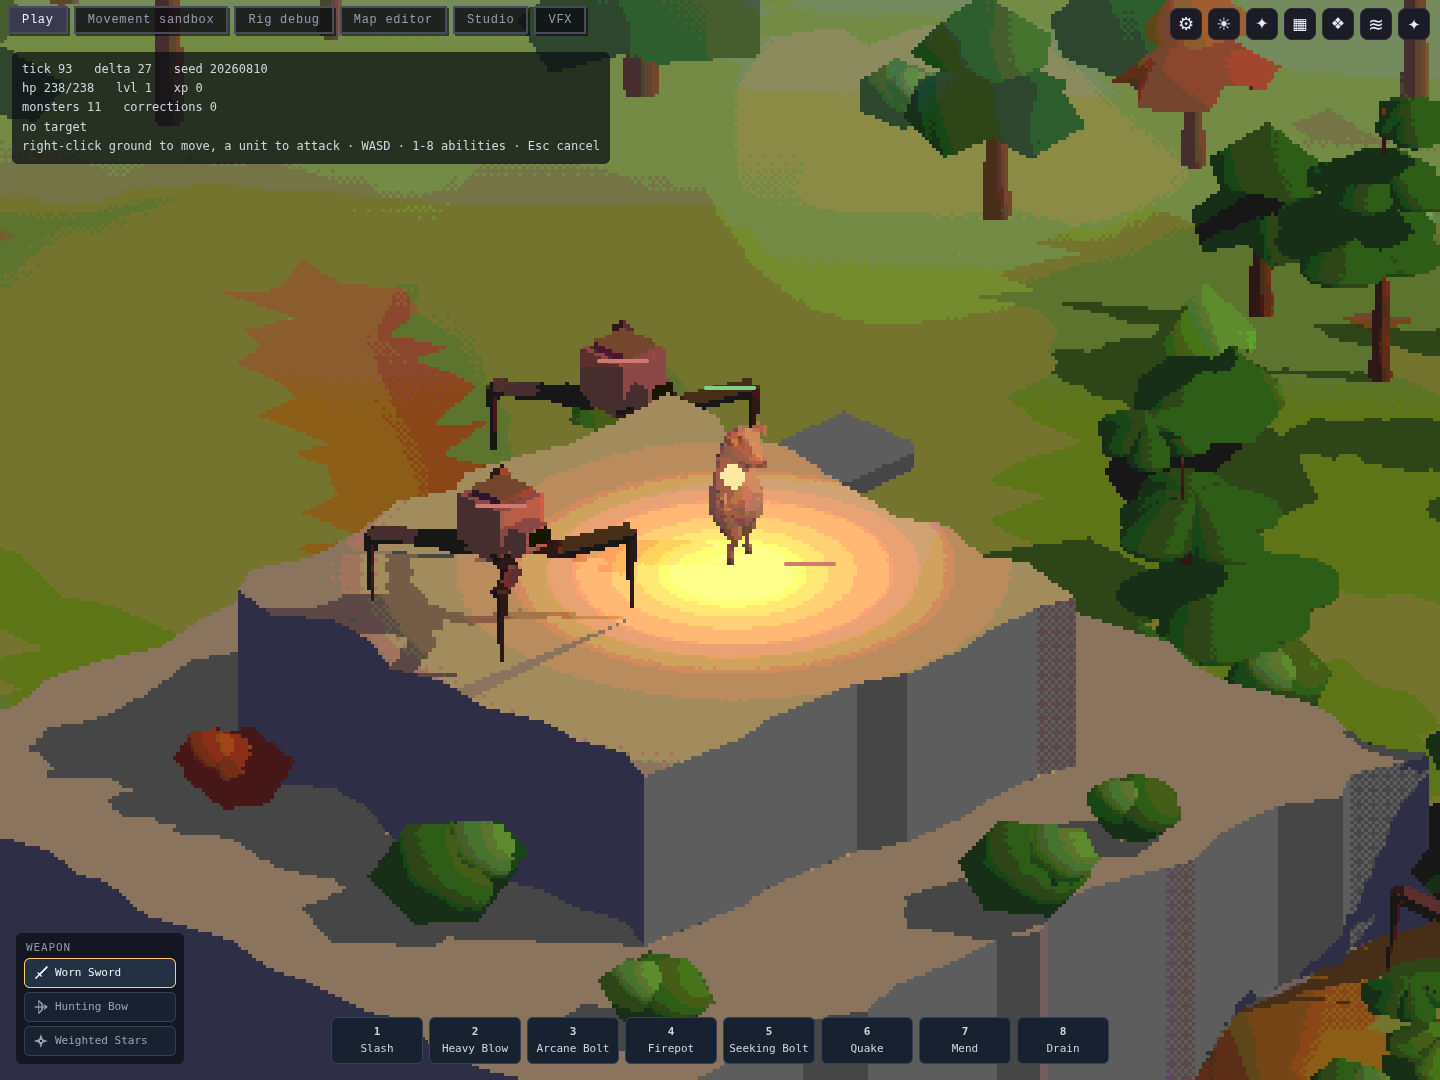
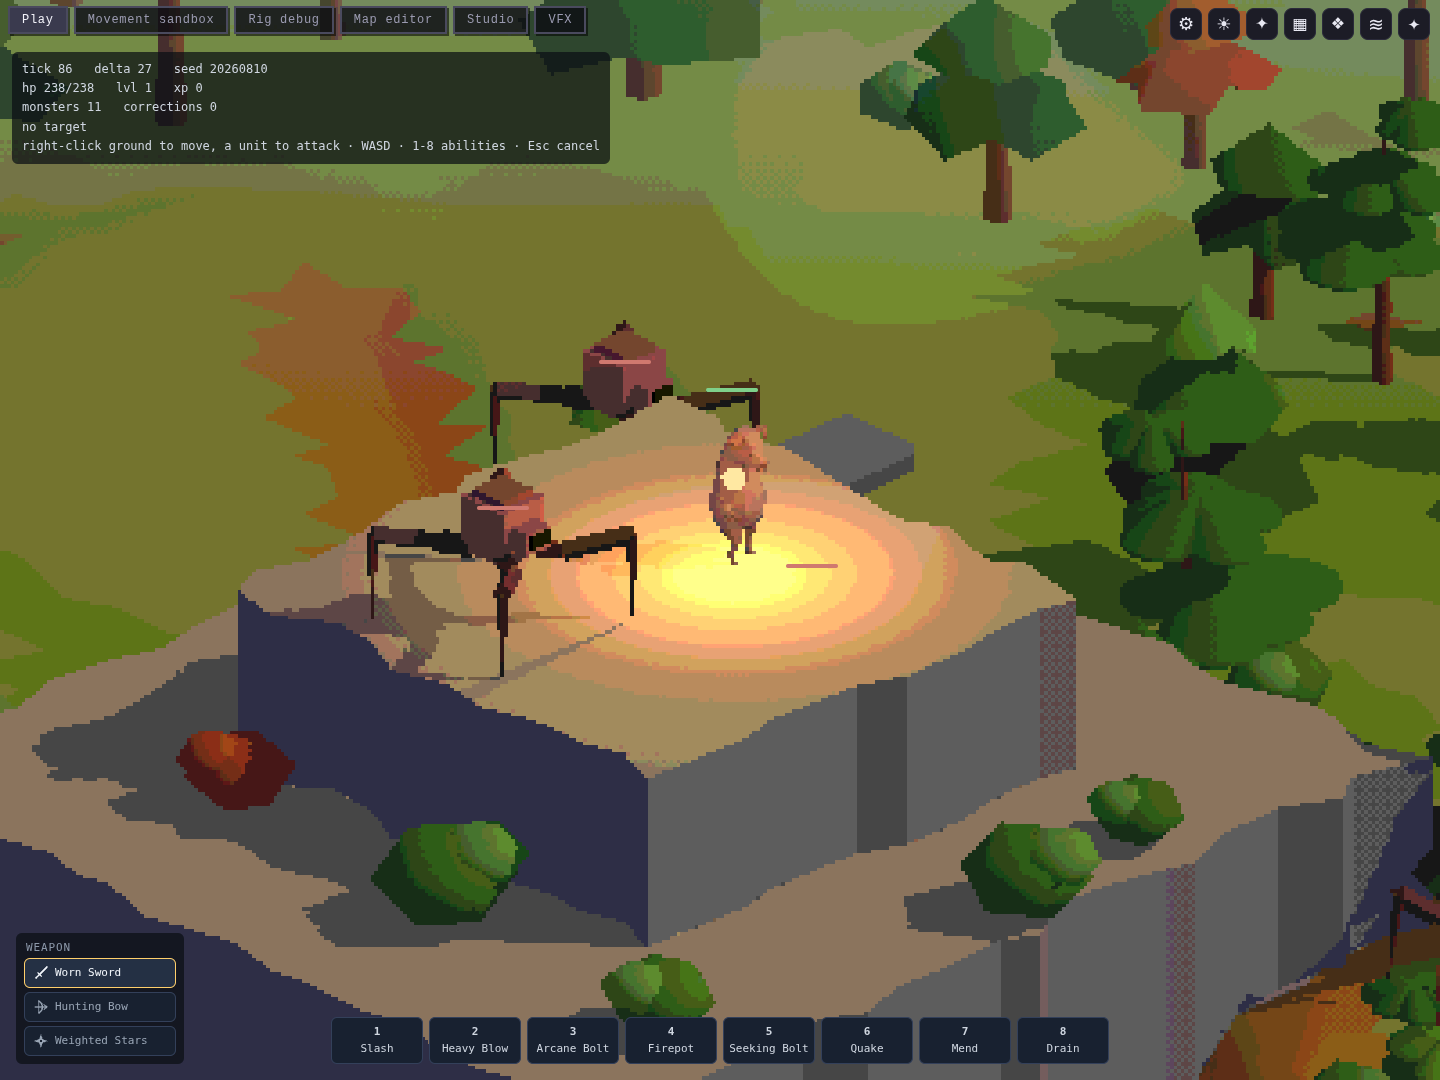
Ask about the whole body, not the point in the middle of it
Marching from the chest answers "is the chest hidden", which is a third question
again and still not the one worth asking. A unit at the corner of a tier with
one shoulder behind it opened the iris and took a crescent out of the wall while
the unit was plainly visible the whole time.

Five samples spanning the silhouette instead -- knees, chest and head up the
body, two more across the view, which is the direction a corner actually clips
one -- and the iris opens only when every one of them is hidden. If any part of
a unit can be seen, the view has no business moving the world.

The lateral samples use a *horizontal* right vector rather than the camera's
own. One that tilted with the pitch would put them above and below the body
instead of either side of it, which is the axis that already had three.

Claude-Session: https://claude.ai/code/session_019snhi2VzDBFhpNoJ2UAnNu

diff --git a/src/render/iso3d/world/scene.ts b/src/render/iso3d/world/scene.ts
@@ -79,7 +79,7 @@ import { HikeEdges } from '../hike-edges.js';
 import { advanceWind } from '../wind-uniforms.js';
 import { clearCutout, cutBodyUniform, cutParamsUniform } from '../cutout-uniforms.js';
 import {
-  bodyIsHidden,
+  bodyHiddenFraction,
   cutoutCoverage,
   CUTOUT_DEFAULTS,
   easeCutout,
@@ -459,6 +459,8 @@ export class WorldScene {
   /** How far open the iris is, 0..1. Eased toward whether the body is hidden. */
   private cutOpen = 0;
   private readonly cutToCamera = new THREE.Vector3();
+  /** Across the view, horizontally: where a corner actually clips a body. */
+  private readonly cutRight = new THREE.Vector3();
   private readonly ndc = new THREE.Vector2();
   private readonly groundPlane = new THREE.Plane(new THREE.Vector3(0, 1, 0), 0);
   private readonly hit = new THREE.Vector3();
@@ -937,10 +939,24 @@ export class WorldScene {
     // Answered off the heightfield, not the geometry: `getWorldDirection` is
     // where the camera is looking, so its negation is the line to march.
     this.camera.getWorldDirection(this.cutToCamera).negate();
-    const chest = groundY + DEFAULT_CANONICAL_HEIGHT * 0.5;
+    // Horizontal, across the view. `crossVectors` with world up, then flattened:
+    // the lateral samples are meant to span the body's *silhouette*, and a right
+    // vector that tilted with the camera's pitch would put them above and below
+    // it instead.
+    this.cutRight.set(this.cutToCamera.z, 0, -this.cutToCamera.x).normalize();
+    // All of it, not the chest alone. A unit at the corner of a tier with one
+    // shoulder behind it used to open the iris and take a crescent out of the
+    // wall while the unit was plainly visible the whole time -- so if any part of
+    // it can be seen, the world does not move.
     const hidden =
       style !== 'off' &&
-      bodyIsHidden({ x: me.x, y: chest, z: me.y }, this.cutToCamera, (x, z) => this.ground(x, z));
+      bodyHiddenFraction(
+        { x: me.x, y: groundY, z: me.y },
+        this.cutToCamera,
+        this.cutRight,
+        DEFAULT_CANONICAL_HEIGHT,
+        (x, z) => this.ground(x, z),
+      ) >= 1;
     this.cutOpen = easeCutout(this.cutOpen, hidden, dt);
 
     // The chest, pushed into view space for the hole's centre...

diff --git a/src/render/iso3d/cutout.test.ts b/src/render/iso3d/cutout.test.ts
@@ -3,7 +3,9 @@ import { describe, expect, it } from 'vitest';
 import { DEFAULT_CANONICAL_HEIGHT } from '../../units/canonical-height.js';
 import {
   bayer4,
+  bodyHiddenFraction,
   bodyIsHidden,
+  BODY_SAMPLES,
   cutoutCoverage,
   cutoutDiscards,
   CUTOUT_APPLY,
@@ -386,5 +388,46 @@ describe('the iris', () => {
 
   it('does not move backwards on a zero-length frame', () => {
     expect(easeCutout(0.4, true, 0)).toBe(0.4);
+  });
+});
+
+describe('how much of the body is hidden (spec 128)', () => {
+  const toCamera = { x: -0.57, y: 0.6, z: -0.57 };
+  const right = { x: -0.707, y: 0, z: 0.707 };
+  const feet = { x: 0, y: 50, z: 0 };
+  const H = DEFAULT_CANONICAL_HEIGHT;
+  const fraction = (heightAt: (x: number, z: number) => number): number =>
+    bodyHiddenFraction(feet, toCamera, right, H, heightAt);
+
+  it('is zero over open ground', () => {
+    expect(fraction(() => 40)).toBe(0);
+  });
+
+  it('is one inside a walled courtyard', () => {
+    expect(fraction((x, z) => (x < -40 && z < -40 ? 500 : 40))).toBe(1);
+  });
+
+  it('is short of one when a corner clips only part of the body', () => {
+    // A wall covering one side of the line: the samples across the view
+    // disagree, which is exactly the case that used to open a crescent beside a
+    // unit you could see perfectly well.
+    const wall = (x: number, z: number): number => (x < -40 && z < -40 && x - z > 0 ? 500 : 40);
+    const partial = fraction(wall);
+    expect(partial).toBeGreaterThan(0);
+    expect(partial).toBeLessThan(1);
+  });
+
+  it('looks from more than one height, so a low wall does not read as a full one', () => {
+    // Hides the knees only: the line from a low sample meets the wall, the line
+    // from the head clears it.
+    const lowWall = (x: number, z: number): number => (x < -40 && x > -120 && z < -40 && z > -120 ? 70 : 40);
+    expect(fraction(lowWall)).toBeLessThan(1);
+  });
+
+  it('spans the body sideways as well as up', () => {
+    const sides = new Set(BODY_SAMPLES.map((s) => s.side));
+    const ups = new Set(BODY_SAMPLES.map((s) => s.up));
+    expect(sides.size).toBeGreaterThan(1);
+    expect(ups.size).toBeGreaterThan(1);
   });
 });

diff --git a/src/render/iso3d/cutout.ts b/src/render/iso3d/cutout.ts
@@ -210,6 +210,55 @@ export function bodyIsHidden(
 }
 
 /**
+ * Where on the body to look from, as fractions of its height: up from the feet,
+ * and sideways across the view.
+ *
+ * One sample was not enough, and the way it failed is instructive. Marching from
+ * the chest alone answers "is the chest hidden", so a unit standing at the
+ * corner of a tier with one shoulder behind it opened the iris and took a
+ * crescent out of the wall -- while the unit was plainly visible the whole time.
+ *
+ * Knees, chest and head span the silhouette vertically; the two lateral samples
+ * span it across the view, which is the direction a corner actually clips a
+ * body. Five marches is about a hundred `heightAt` calls a frame, which is what
+ * the movement code spends on one entity in a tick.
+ */
+export const BODY_SAMPLES: readonly { readonly up: number; readonly side: number }[] = [
+  { up: 0.15, side: 0 },
+  { up: 0.5, side: 0 },
+  { up: 0.9, side: 0 },
+  { up: 0.5, side: -0.35 },
+  { up: 0.5, side: 0.35 },
+];
+
+/**
+ * How much of the body the ground is standing in front of, in [0, 1].
+ *
+ * The caller wants **all** of it before it opens anything: if any part of a unit
+ * can be seen, the view has no business moving the world. A threshold below one
+ * is the behaviour this replaced -- a hole appearing beside a unit you were
+ * already looking at.
+ */
+export function bodyHiddenFraction(
+  feet: WorldPoint,
+  toCamera: WorldPoint,
+  right: WorldPoint,
+  bodyHeight: number,
+  heightAt: (x: number, z: number) => number,
+): number {
+  let hidden = 0;
+  for (const sample of BODY_SAMPLES) {
+    const at: WorldPoint = {
+      x: feet.x + right.x * sample.side * bodyHeight,
+      y: feet.y + sample.up * bodyHeight,
+      z: feet.z + right.z * sample.side * bodyHeight,
+    };
+    if (bodyIsHidden(at, toCamera, heightAt)) hidden++;
+  }
+  return hidden / BODY_SAMPLES.length;
+}
+
+/**
  * Ease the opening toward where it should be, per second.
  *
  * The answer above is a yes or a no, and a hole that snaps into existence the

diff --git a/specs/128-only-cut-when-something-is-in-the-way.md b/specs/128-only-cut-when-something-is-in-the-way.md
@@ -42,6 +42,32 @@ on a slope facing the camera they graze it — without the clearance, every unit
 walking uphill toward the camera declares itself hidden by the hill it is
 climbing.
 
+### All of the body, not one point of it
+
+```ts
+export function bodyHiddenFraction(
+  feet: WorldPoint,
+  toCamera: WorldPoint,
+  right: WorldPoint,   // horizontal, across the view
+  bodyHeight: number,
+  heightAt: (x: number, z: number) => number,
+): number;
+```
+
+Marching from the chest alone answers "is the chest hidden", which is a third
+question again. A unit standing at the corner of a tier with one shoulder behind
+it opened the iris and took a crescent out of the wall while the unit was
+plainly visible the whole time.
+
+`BODY_SAMPLES` spans the silhouette: knees, chest and head vertically, and two
+more across the view — which is the direction a corner actually clips a body.
+The caller wants the fraction to be **1**. If any part of a unit can be seen,
+the view has no business moving the world; a threshold below one is the
+behaviour this replaced.
+
+Five marches is about a hundred `heightAt` calls a frame, which is what the
+movement code already spends on a single entity in one tick.
+
 ### An iris, not a switch
 
 ```ts
@@ -64,7 +90,12 @@ closing iris takes its clickable hole with it.
 
 ## Invariants tested
 
-- Open ground: not hidden.
+- Open ground: nothing hidden.
+- A walled courtyard: all of it hidden.
+- A corner clipping one side of the body: some but not all — the reported case,
+  and the one that must not open anything.
+- A wall too low to cover the head: not all.
+- The samples span the body both up and across, not just up.
 - Rock nearer the camera but off the line: not hidden. This is the reported bug.
 - A wall standing on the line: hidden.
 - A hillside the body is climbing: not hidden.
